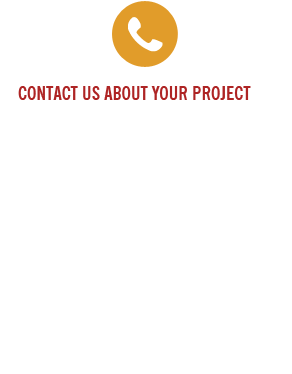
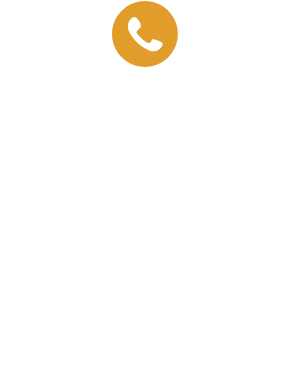
took wording off of form image and switched form to iframe

Changed region(s): [[0.0616, 0.2059, 0.863, 0.2647]]

diff --git a/hwp/index.html b/hwp/index.html
@@ -72,7 +72,13 @@
 <ul class="small-block-grid-1 large-block-grid-3">
 	<li class="grid1"><a href="residential.html"><div class="grid-text">Some text here to describe residential services in more detail. Some text here to describe residential services in more detail. Some text here to describe residential services in more detail.</div></a></li>
 	<li class="grid2"><a href="commercial.html"><div class="grid-text">Some text here to describe commercial services in more detail. Some text here to describe commercial services in more detail. Some text here to describe residential commercial in more detail.</div></a></li>
-	<li class="grid3"></li>
+	<li class="grid3">
+
+<iframe height="517" allowTransparency="true" frameborder="0" scrolling="no" style="width:100%;border:none"  src="https://theimageauthor.wufoo.com/embed/s1y6al4m0of7nws/"><a href="https://theimageauthor.wufoo.com/forms/s1y6al4m0of7nws/">Fill out my Wufoo form!</a></iframe>
+
+
+
+	</li>
 </ul>
 </div>
 </div>
